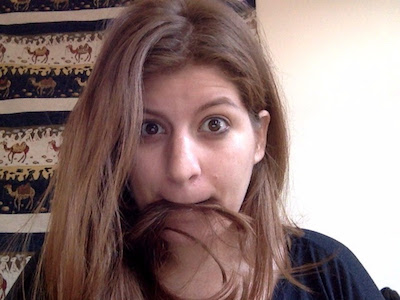
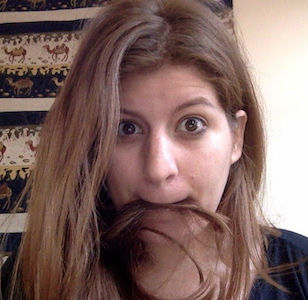
resize eli pic

diff --git a/index.html b/index.html
@@ -119,7 +119,7 @@
         </section>
 
         <section>
-          <img src="img/eli.jpg">
+          <img id="bio-pic" src="img/eli.jpg">
           <h3><a href="http://twitter.com/elibelly">Elianne Schutze</a></h3>
           <p>
             <small>
